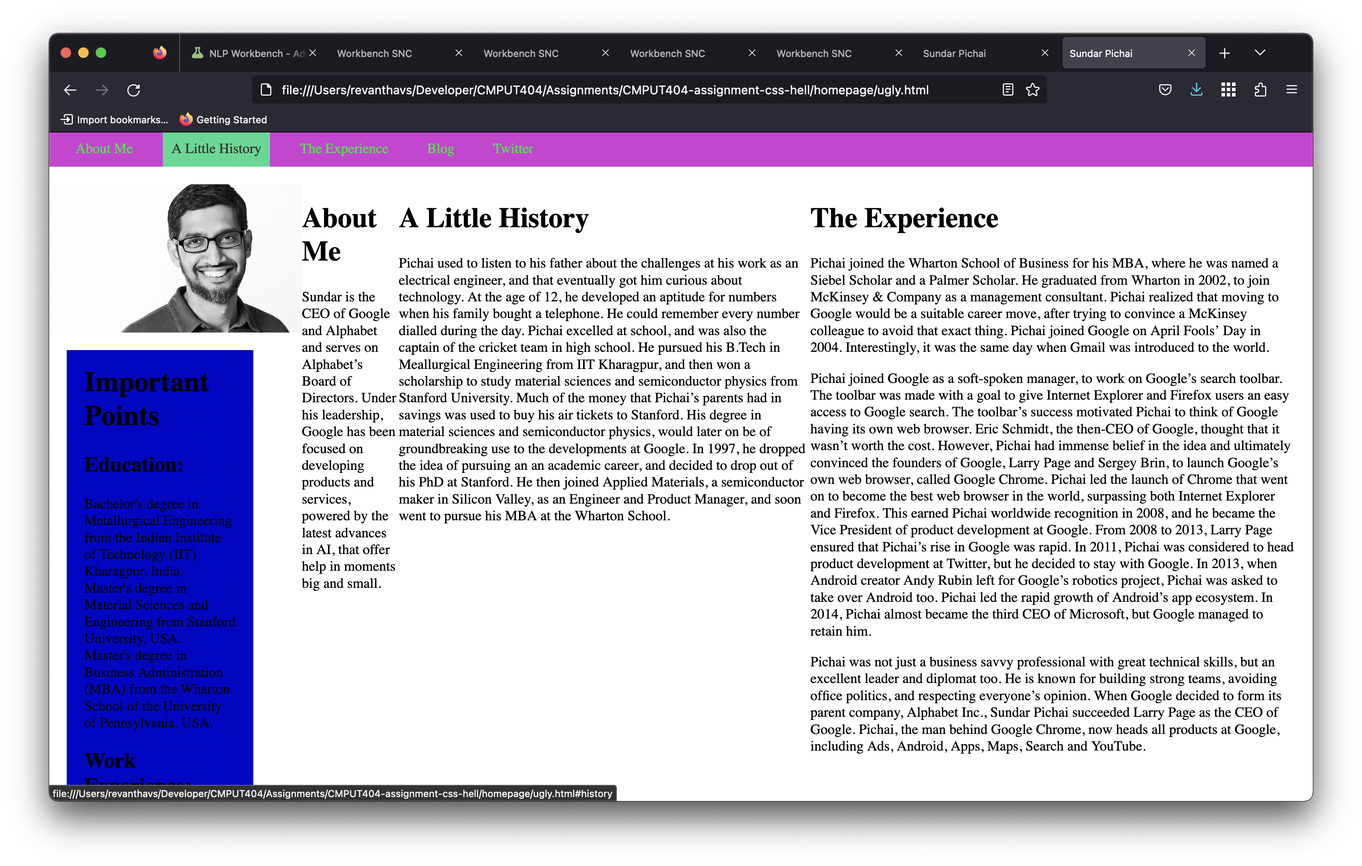
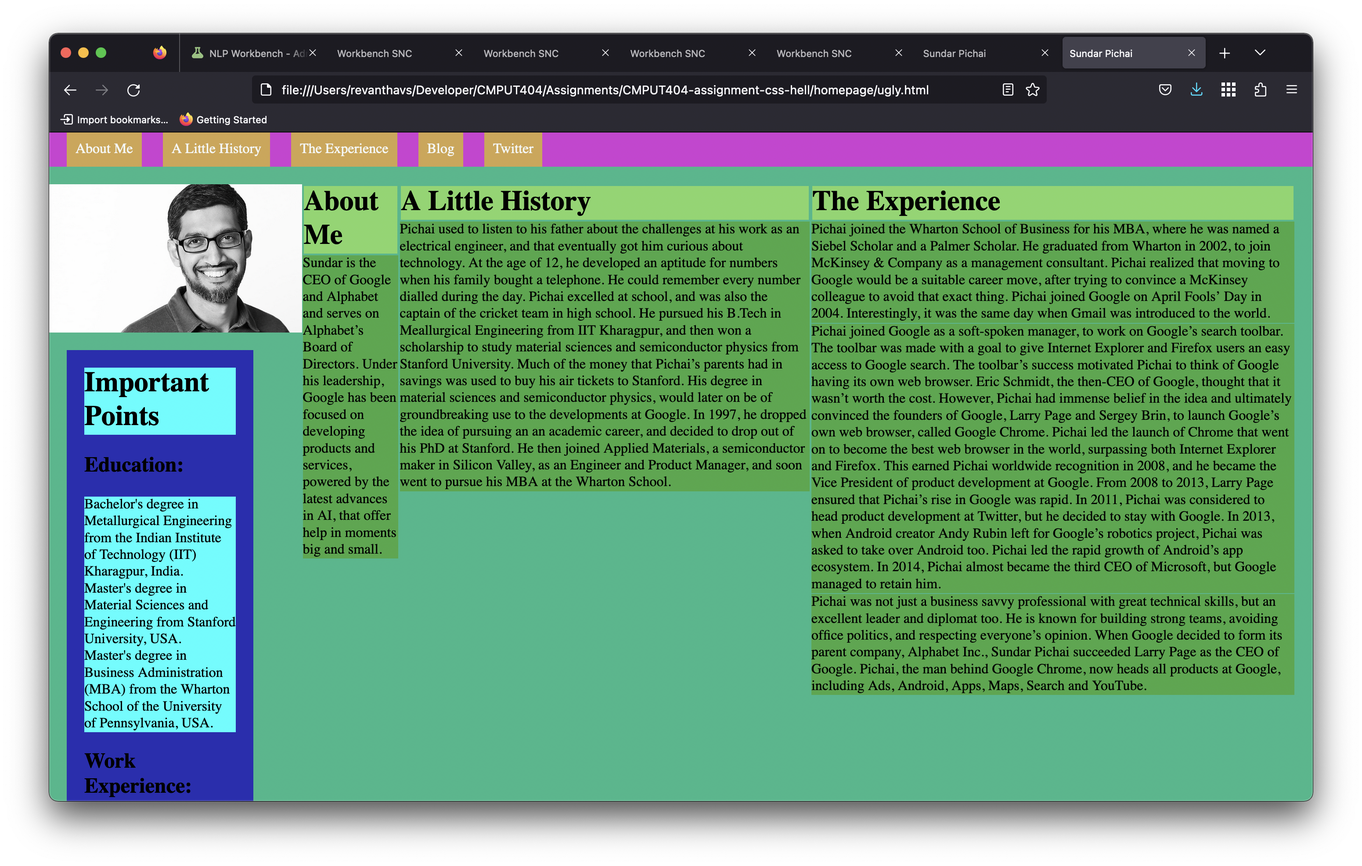
Updates to Ugly theme

diff --git a/homepage/ugly.css b/homepage/ugly.css
@@ -1,5 +1,6 @@
 body {
     margin: 0;
+    background-color: rgb(45, 184, 138);
 }
 
 .image {
@@ -27,6 +28,7 @@ body {
 .navbar li {
     display: inline-block;
     margin-right: 20px;
+    background-color: rgb(209, 165, 78);
 }
 
 .navbar li:last-child {
@@ -35,7 +37,7 @@ body {
 
 .navbar a {
     display: block;
-    color: rgb(33, 217, 73);
+    color: rgb(244, 247, 248);
     text-decoration: none;
     padding: 10px;
 }
@@ -60,6 +62,16 @@ body {
     padding: 0;
 }
 
+.content p {
+    margin: 1px;
+    background-color: rgb(66, 168, 69);
+}
+
+.content h1{
+    margin: 2px;
+    background-color: rgb(129, 214, 103);
+}
+
 
 .image .sidebar {
     margin: 20px;
@@ -67,15 +79,17 @@ body {
     max-width: 60%;
     float: right;
     height: auto;
-    background-color: #0007c8;
+    background-color: #292eb3;
 }
 
 .image .sidebar h1 {
     margin-top: 0;
+    background-color: aqua;
 }
 
 .image .sidebar ul {
     margin: 0;
     padding: 0;
     list-style: none;
+    background-color: aqua;
 }
